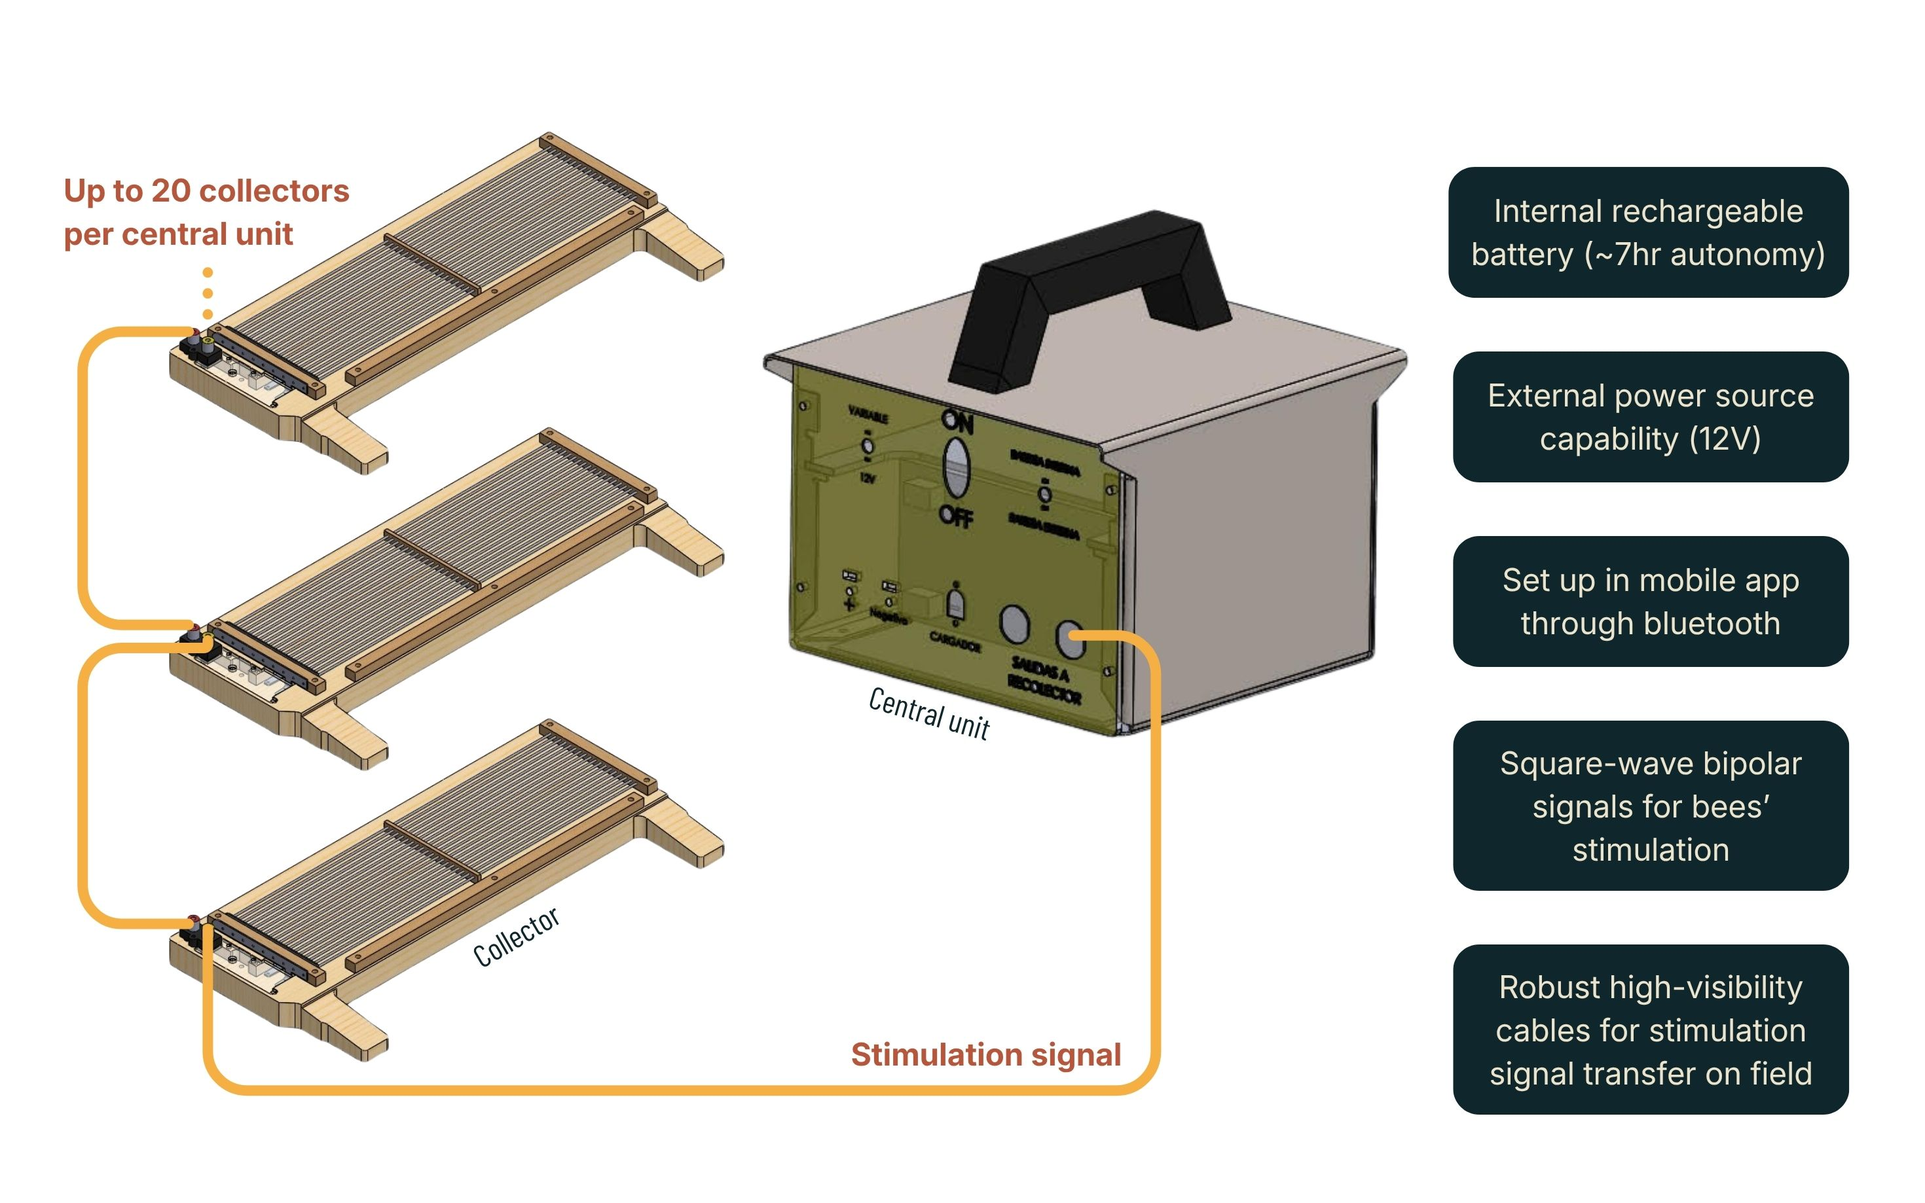
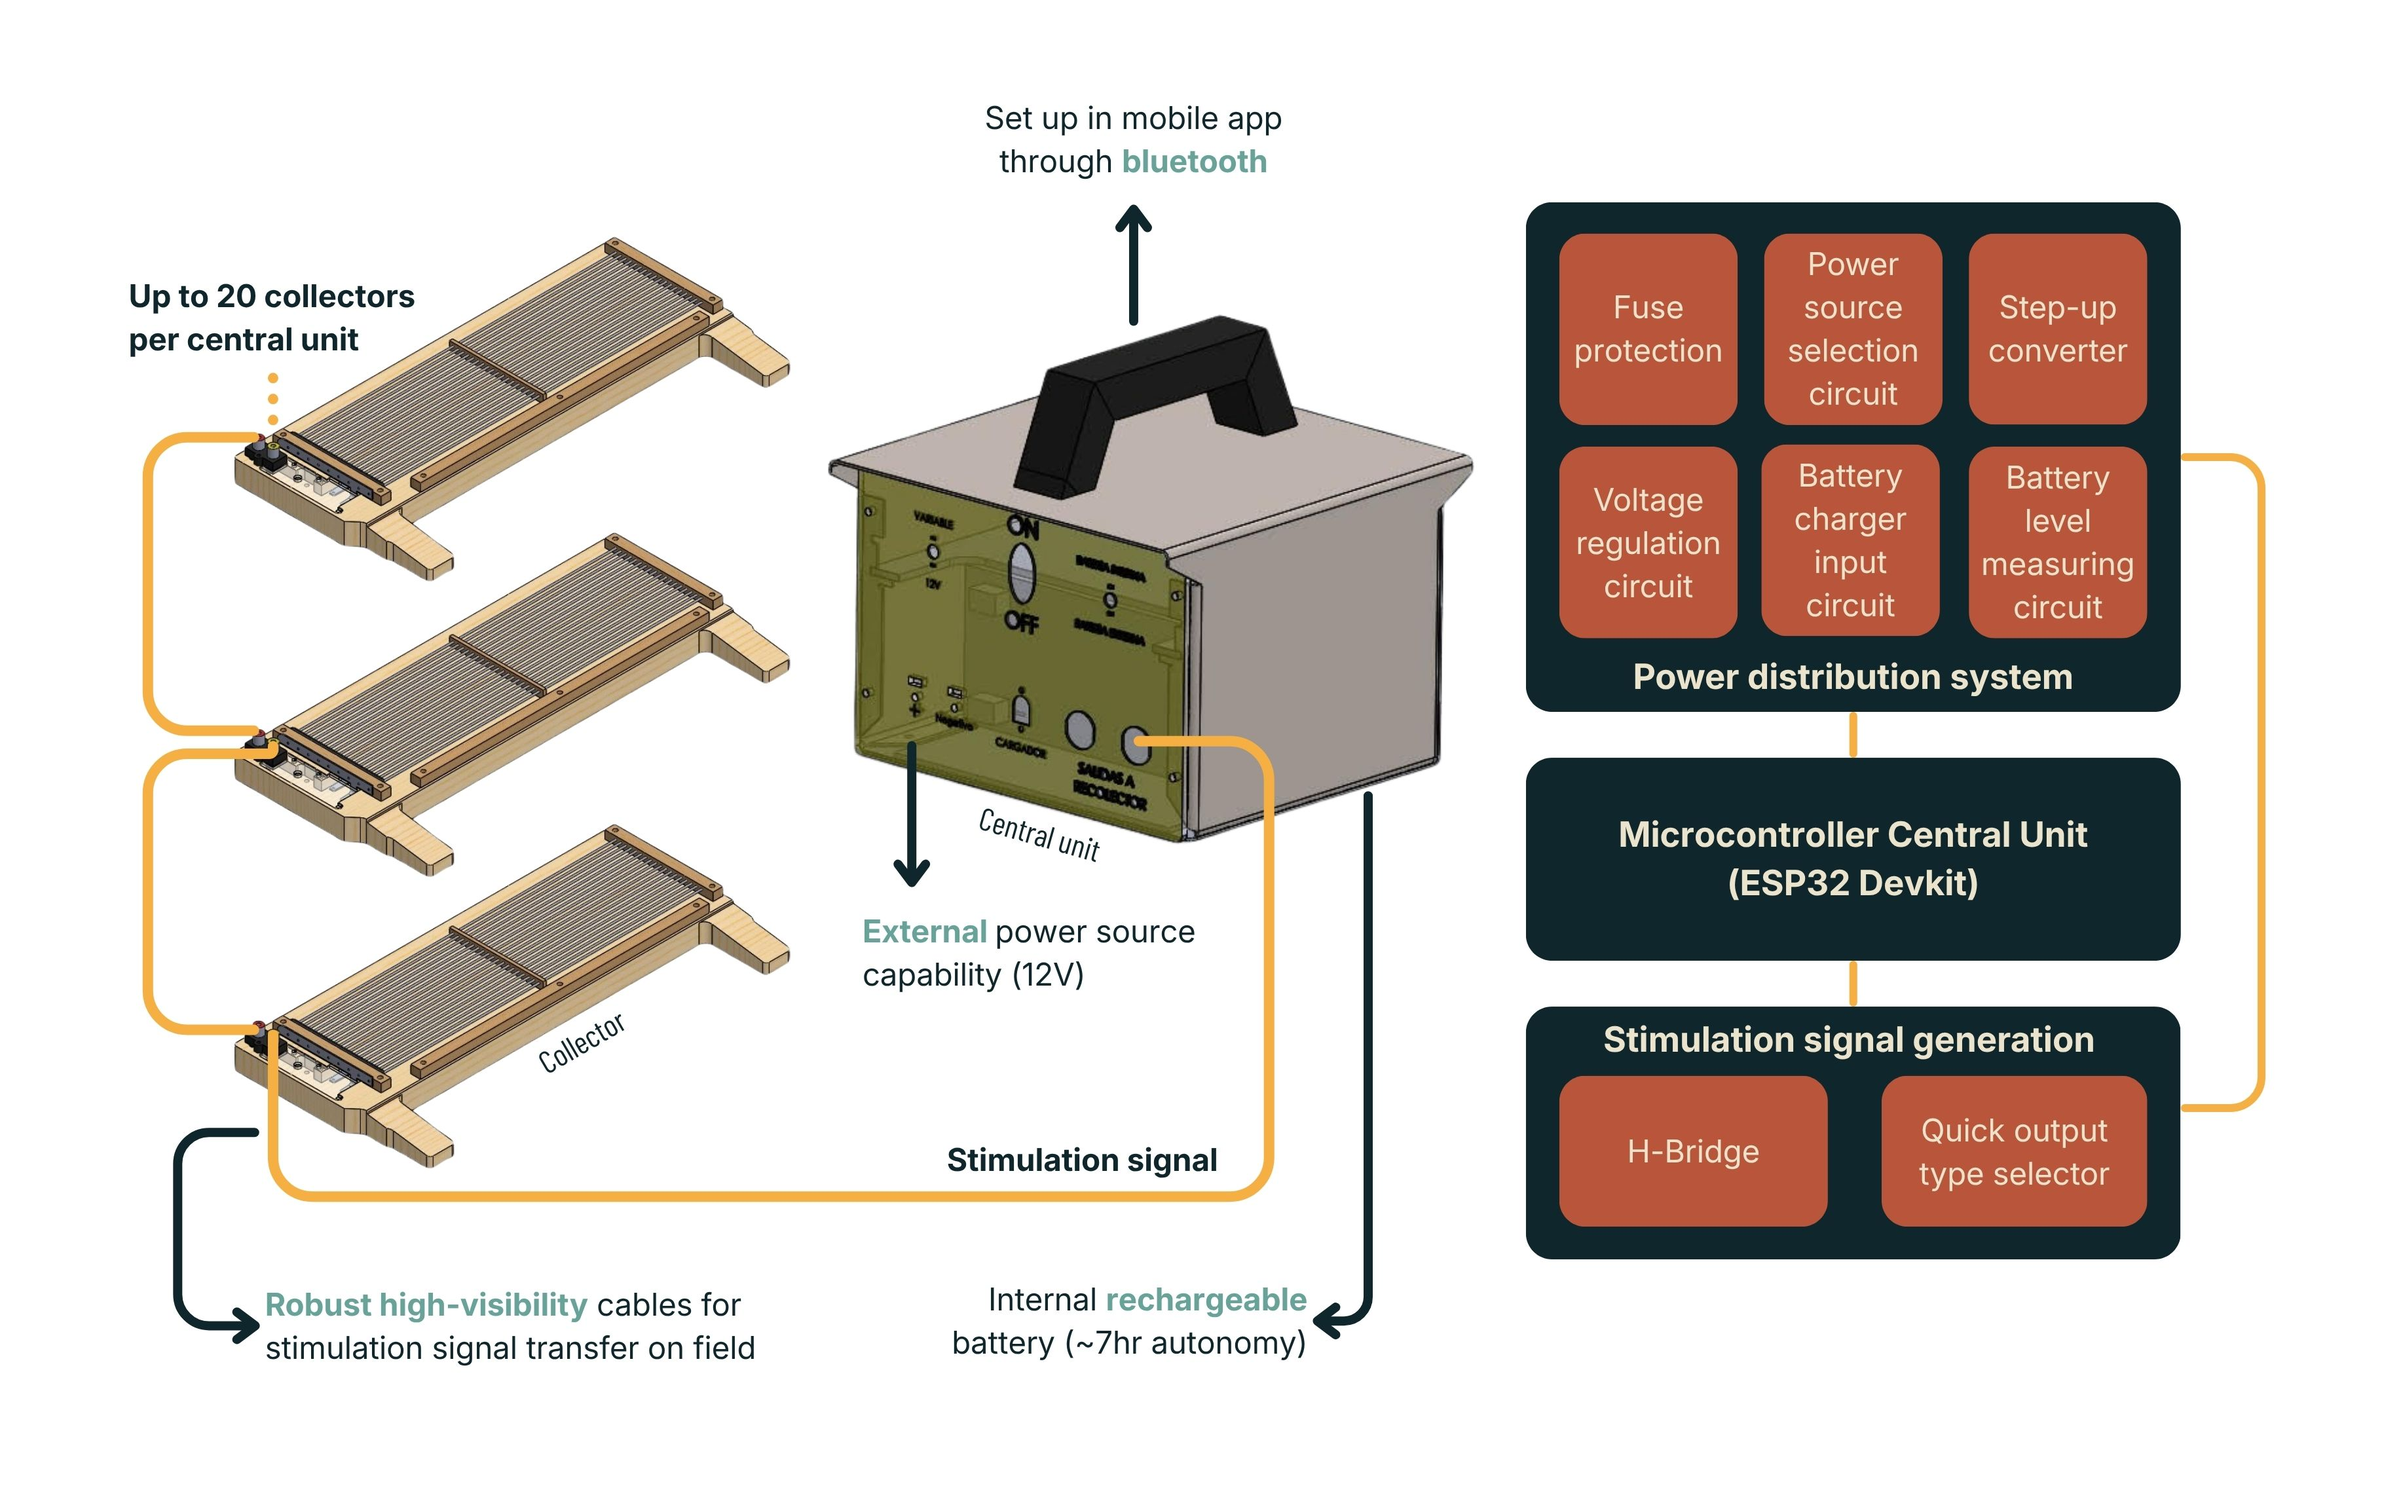
Adding media to CAHD project (pending modifying json files)

diff --git a/cahd.html b/cahd.html
@@ -64,10 +64,11 @@
   <!-- Hero media -->
   <div class="pp-hero-media">
     <span class="corner-label" data-i18n="cahd.hero_corner">01 / Hero</span>
-    <div class="placeholder">
+    <img src="assets/media/cahd_hero.png" alt="Overall auger extruder assembled on the printer">
+    <!-- <div class="placeholder">
       <span data-i18n="cahd.hero_placeholder">CAHD V4 DEVICE</span>
       <span class="small" data-i18n="cahd.hero_placeholder_small">/assets/images/cahd-hero.jpg</span>
-    </div>
+    </div> -->
   </div>
 
   <!-- Spec sheet -->
@@ -163,7 +164,8 @@
   <!-- Inverted diagram block -->
   <div class="pp-diagram">
     <div class="diagram-area">
-      <span class="placeholder" data-i18n="cahd.approach_diag_placeholder">DUAL-ESP32 + CONNECTIVITY STACK</span>
+      <!-- <span class="placeholder" data-i18n="cahd.approach_diag_placeholder">DUAL-ESP32 + CONNECTIVITY STACK</span> -->
+      <img src="assets/media/cahd_diagram.jpg" alt="Architecture diagram of the IoT Attendace Device CAHD">
     </div>
     <div class="diagram-caption">
       <span data-i18n="cahd.approach_diag_caption_left">fig.01 — UX controller + connectivity controller</span>
@@ -205,8 +207,15 @@
 
   <!-- Iteration diagram / gallery hint -->
   <div class="pp-video">
-    <span class="vid-meta" data-i18n="cahd.result_video_meta">V1 → V4 · MP4</span>
-    <div class="play" aria-label="Play video"></div>
+    <span class="vid-meta" data-i18n="cahd.result_video_meta">01:28 · MP4</span>
+    <iframe
+      src="https://www.youtube.com/embed/bkmtWujphyM?modestbranding=1&rel=0&vq=hd720"
+      title="IoT attendance device demo"
+      frameborder="0"
+      allow="accelerometer; autoplay; clipboard-write; encrypted-media; gyroscope"
+      allowfullscreen>
+    </iframe>
+    <!-- <div class="play" aria-label="Play video"></div> -->
   </div>
   <p style="font-family: var(--font-mono); font-size: 0.6rem; letter-spacing: 0.08em; text-transform: uppercase; opacity: 0.7; margin-top: -0.5rem; margin-bottom: 1.2rem;" data-i18n="cahd.result_video_placeholder">
     Device in operation — fingerprint check
@@ -232,21 +241,49 @@
   <h3 class="pp-h3" data-i18n="cahd.h3_gallery">Process & details</h3>
 
   <div class="pp-gallery">
-    <div class="thumb thumb-a">
-      <span class="caption" data-i18n="cahd.gallery_a_caption">01 · Device</span>
-      <span class="placeholder" data-i18n="cahd.gallery_a_placeholder">V4 assembled</span>
+    <div class="thumb">
+      <span class="caption" data-i18n="cahd.gallery_a_caption">01 · CAHD V3</span>
+      <img src="assets/media/cahd_v3.jpg" alt="Last functional prototype: CAHD V3">
+      <!-- <span class="placeholder" data-i18n="cahd.gallery_a_placeholder">V4 assembled</span> -->
     </div>
-    <div class="thumb thumb-b">
-      <span class="caption" data-i18n="cahd.gallery_b_caption">02 · PCB</span>
-      <span class="placeholder" data-i18n="cahd.gallery_b_placeholder">Custom PCB</span>
+    <div class="thumb">
+      <span class="caption" data-i18n="cahd.gallery_b_caption">02 · Internal integration</span>
+      <img src="assets/media/cahd_v3_internal.jpg" alt="Prototype Internal Integration: CAHD V3">
+      <!-- <span class="placeholder" data-i18n="cahd.gallery_b_placeholder">Custom PCB</span> -->
     </div>
-    <div class="thumb thumb-c">
-      <span class="caption" data-i18n="cahd.gallery_c_caption">03 · Iterations</span>
-      <span class="placeholder" data-i18n="cahd.gallery_c_placeholder">V1–V4 evolution</span>
+    <div class="thumb wide">
+      <span class="caption" data-i18n="cahd.gallery_c_caption">03 · Exploded</span>
+      <img src="assets/media/cahd_v3_exploded.jpg" alt="Prototype Internal Integration Exploded: CAHD V3">
+      <!-- <span class="placeholder" data-i18n="cahd.gallery_c_placeholder">V1–V4 evolution</span> -->
     </div>
-    <div class="thumb thumb-d">
-      <span class="caption" data-i18n="cahd.gallery_d_caption">04 · Screen</span>
-      <span class="placeholder" data-i18n="cahd.gallery_d_placeholder">Touch interface</span>
+    <div class="thumb">
+      <span class="caption" data-i18n="cahd.gallery_d_caption">04 · Conceptual test</span>
+      <img src="assets/media/cahd_concept_test1.jpg" alt="First conceptual test">
+      <!-- <span class="placeholder" data-i18n="cahd.gallery_d_placeholder">Touch interface</span> -->
+    </div>
+    <div class="thumb">
+      <span class="caption" data-i18n="cahd.gallery_d_caption">05 · Conceptual test</span>
+      <img src="assets/media/cahd_concept_test2.jpg" alt="Second conceptual test">
+    </div>
+    <div class="thumb">
+      <span class="caption" data-i18n="cahd.gallery_d_caption">06 · CAHD V1</span>
+      <img src="assets/media/cahd_v1.jpg" alt="CAHD V1 prototype">
+    </div>
+    <div class="thumb">
+      <span class="caption" data-i18n="cahd.gallery_d_caption">07 · CAHD V2</span>
+      <img src="assets/media/cahd_v2.jpg" alt="CAHD V2 prototype">
+    </div>
+    <div class="thumb">
+      <span class="caption" data-i18n="cahd.gallery_d_caption">08 · PCB V1</span>
+      <img src="assets/media/cahd_pcbv1.jpg" alt="PCB design 4th iteration">
+    </div>
+    <div class="thumb tall">
+      <span class="caption" data-i18n="cahd.gallery_d_caption">09 · PCB V10</span>
+      <img src="assets/media/cahd_pcbv10.jpg" alt="PCB design 4th iteration">
+    </div>
+    <div class="thumb">
+      <span class="caption" data-i18n="cahd.gallery_d_caption">10 · PCB V4</span>
+      <img src="assets/media/cahd_pcbv4.jpg" alt="PCB design 4th iteration">
     </div>
   </div>
 

diff --git a/index.html b/index.html
@@ -128,7 +128,7 @@
           </p>
           <div class="pc-stack" data-i18n="home.p2_stack">ESP32 · H-bridge PCB · C/C++ firmware</div>
         </div>
-      </a>
+      </a>    
 
       <!-- Project 03 — CAHD -->
       <a class="project-card" href="cahd.html">
@@ -137,7 +137,8 @@
           <span data-i18n="home.p3_year">2019–2020</span>
         </div>
         <div class="pc-thumb thumb-3">
-          <span class="placeholder" data-i18n="home.p3_thumb_placeholder">CAHD device</span>
+          <!-- <span class="placeholder" data-i18n="home.p3_thumb_placeholder">CAHD device</span> -->
+          <img src="assets/media/cahd_home.jpg" alt="Explode view of IOT biometric attendance device render">
         </div>
         <div class="pc-body">
           <h4 data-i18n="home.p3_title">CAHD</h4>

diff --git a/edapi.html b/edapi.html
@@ -64,7 +64,7 @@
   <!-- Hero media -->
   <div class="pp-hero-media">
     <span class="corner-label" data-i18n="edapi.hero_corner">01 / Hero</span>
-    <img src="assets/media/edapi_hero.png" alt="EDAPI hero">
+    <img src="assets/media/edapi_hero.jpg" alt="EDAPI hero">
     <!-- <div class="placeholder">
       <span data-i18n="edapi.hero_placeholder">EDAPI COLLECTOR IN THE FIELD</span>
       <span class="small" data-i18n="edapi.hero_placeholder_small">/assets/images/edapi-hero.jpg</span>

diff --git a/css/home.css b/css/home.css
@@ -163,6 +163,10 @@
   inset: 0;
 }
 
+.pc-thumb:has(img, video, iframe)::after {
+  display: none;
+}
+
 .pc-body {
   padding: 0.8rem 0.9rem;
 }
